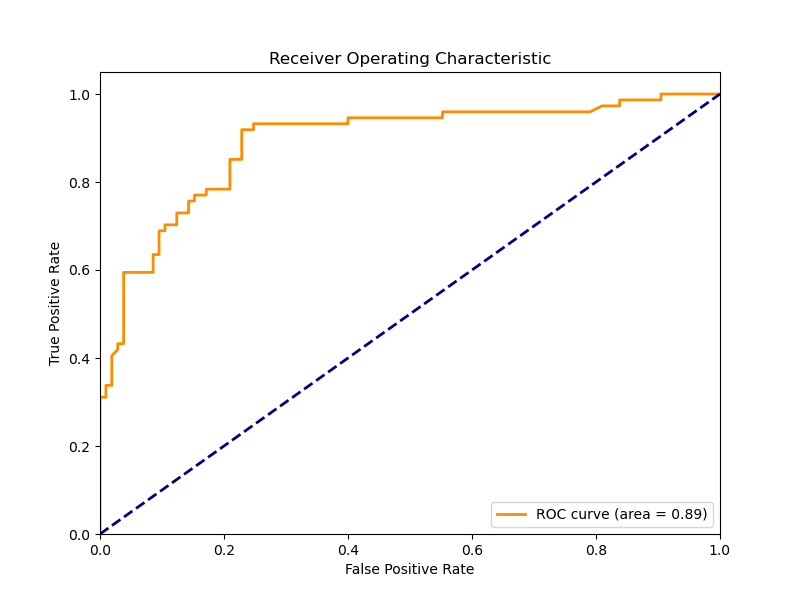
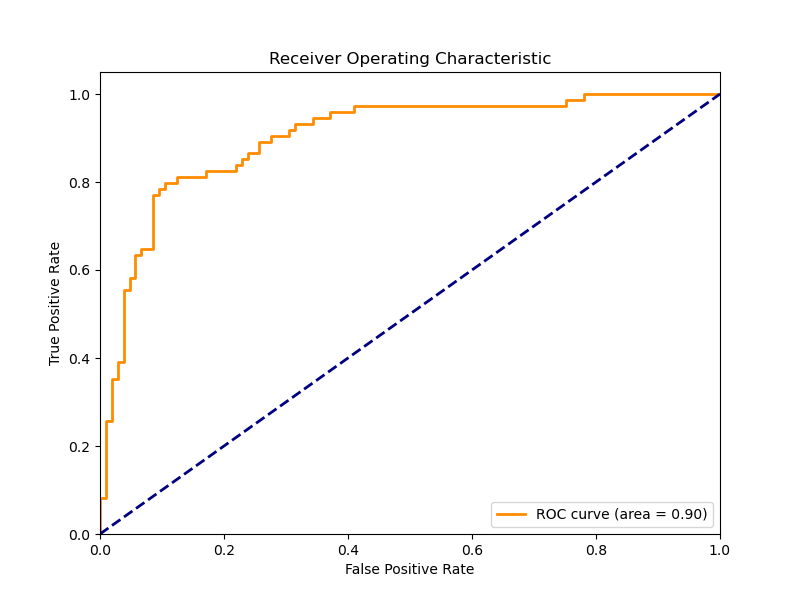
adding SMOTE to enhance accuracy of prediction

Changed region(s): [[0.125, 0.15, 0.9062, 0.48], [0.125, 0.57, 0.1562, 0.84], [0.8438, 0.84, 0.875, 0.87]]

diff --git a/algorithm_selection.py b/algorithm_selection.py
@@ -11,6 +11,8 @@ from joblib import dump
 from sklearn.tree import DecisionTreeClassifier
 from sklearn.ensemble import RandomForestClassifier, AdaBoostClassifier
 from sklearn.impute import SimpleImputer
+from imblearn.over_sampling import SMOTE
+from collections import Counter
 
 # Load the dataset
 df = pd.read_csv("train.csv")
@@ -59,6 +61,24 @@ X = X.drop(['AgeBand', 'FareBand'], axis=1, errors='ignore')
 # Split the data into training and testing sets
 X_train, X_test, y_train, y_test = train_test_split(X, y, test_size=0.2, random_state=42)
 
+
+original_feature_names = X.columns
+
+# Fill missing values
+imputer = SimpleImputer(strategy='median')  # You can use 'mean', 'most_frequent', etc.
+X_train = imputer.fit_transform(X_train)
+X_test = imputer.transform(X_test)
+
+
+X_train = pd.DataFrame(X_train, columns=original_feature_names)
+X_test = pd.DataFrame(X_test, columns=original_feature_names)
+
+# Apply SMOTE
+smote = SMOTE(random_state=42)
+X_resampled, y_resampled = smote.fit_resample(X_train, y_train)
+
+print("After SMOTE:", Counter(y_resampled))
+
 MODEL_NAME = "decision_tree"
 MODEL = DecisionTreeClassifier(random_state=42)
 
@@ -79,7 +99,7 @@ param_grid = {
 
 # Perform grid search with cross-validation
 grid_search = GridSearchCV(pipeline, param_grid, cv=5, scoring='accuracy')
-grid_search.fit(X_train, y_train)
+grid_search.fit(X_resampled, y_resampled)
 
 # Get the best model
 best_model = grid_search.best_estimator_
@@ -172,7 +192,7 @@ param_grid = {
 
 # Perform grid search with cross-validation
 grid_search = GridSearchCV(pipeline, param_grid, cv=5, scoring='accuracy')
-grid_search.fit(X_train, y_train)
+grid_search.fit(X_resampled, y_resampled)
 
 # Get the best model
 best_model = grid_search.best_estimator_
@@ -203,47 +223,6 @@ roc_auc = auc(fpr, tpr)
 # Save the model for later use
 dump(best_model, 'titanic_model.joblib')
 print("\nModel saved as 'titanic_model.joblib'")
-
-# Function to predict survival for new passengers
-def predict_survival(passenger_data):
-    """Predict survival for new passenger data.
-    
-    Args:
-        passenger_data: DataFrame with passenger information
-        
-    Returns:
-        Survival predictions (0 or 1)
-    """
-    # Preprocess the data (same as training data)
-    passenger_data['Title'] = passenger_data['Name'].str.extract(' ([A-Za-z]+)\.',
-     expand=False)
-    passenger_data['Title'] = passenger_data['Title'].replace(['Lady', 'Countess',
-    'Capt', 'Col', 'Don', 'Dr', 'Major', 'Rev', 'Sir', 'Jonkheer', 'Dona'], 'Rare')
-    passenger_data['Title'] = passenger_data['Title'].replace(['Mlle', 'Ms'], 'Miss')
-    passenger_data['Title'] = passenger_data['Title'].replace('Mme', 'Mrs')
-    passenger_data['FamilySize'] = passenger_data['SibSp'] + passenger_data['Parch'] + 1
-    passenger_data['IsAlone'] = 0
-    passenger_data.loc[passenger_data['FamilySize'] == 1, 'IsAlone'] = 1
-    
-    # Select features
-    features = ['Pclass', 'Sex', 'Age', 'SibSp', 'Parch', 'Fare', 'Embarked', 
-    'Title', 'FamilySize', 'IsAlone']
-    X_new = passenger_data[features]
-    
-    # Convert categorical variables
-    X_new = pd.get_dummies(X_new, columns=['Sex', 'Embarked', 'Title'], drop_first=True)
-    
-    # Ensure all columns from training are present
-    for col in X.columns:
-        if col not in X_new.columns:
-            X_new[col] = 0
-    
-    # Ensure columns are in the same order
-    X_new = X_new[X.columns]
-    
-    # Make predictions
-    return best_model.predict(X_new)
-
 print("\nModel training and evaluation complete!")
 
 MODEL_NAME = "AdaBoost"
@@ -262,7 +241,7 @@ param_grid = {
 
 # Perform grid search with cross-validation
 grid_search = GridSearchCV(pipeline, param_grid, cv=5, scoring='accuracy')
-grid_search.fit(X_train, y_train)
+grid_search.fit(X_resampled, y_resampled)
 
 # Get the best model
 best_model = grid_search.best_estimator_
@@ -293,45 +272,4 @@ roc_auc = auc(fpr, tpr)
 # Save the model for later use
 dump(best_model, 'titanic_model.joblib')
 print("\nModel saved as 'titanic_model.joblib'")
-
-# Function to predict survival for new passengers
-def predict_survival(passenger_data):
-    """Predict survival for new passenger data.
-    
-    Args:
-        passenger_data: DataFrame with passenger information
-        
-    Returns:
-        Survival predictions (0 or 1)
-    """
-    # Preprocess the data (same as training data)
-    passenger_data['Title'] = passenger_data['Name'].str.extract(' ([A-Za-z]+)\.',
-     expand=False)
-    passenger_data['Title'] = passenger_data['Title'].replace(['Lady', 'Countess',
-    'Capt', 'Col', 'Don', 'Dr', 'Major', 'Rev', 'Sir', 'Jonkheer', 'Dona'], 'Rare')
-    passenger_data['Title'] = passenger_data['Title'].replace(['Mlle', 'Ms'], 'Miss')
-    passenger_data['Title'] = passenger_data['Title'].replace('Mme', 'Mrs')
-    passenger_data['FamilySize'] = passenger_data['SibSp'] + passenger_data['Parch'] + 1
-    passenger_data['IsAlone'] = 0
-    passenger_data.loc[passenger_data['FamilySize'] == 1, 'IsAlone'] = 1
-    
-    # Select features
-    features = ['Pclass', 'Sex', 'Age', 'SibSp', 'Parch', 'Fare', 'Embarked', 
-    'Title', 'FamilySize', 'IsAlone']
-    X_new = passenger_data[features]
-    
-    # Convert categorical variables
-    X_new = pd.get_dummies(X_new, columns=['Sex', 'Embarked', 'Title'], drop_first=True)
-    
-    # Ensure all columns from training are present
-    for col in X.columns:
-        if col not in X_new.columns:
-            X_new[col] = 0
-    
-    # Ensure columns are in the same order
-    X_new = X_new[X.columns]
-    
-    # Make predictions
-    return best_model.predict(X_new)
-
 print("\nModel training and evaluation complete!")

diff --git a/model.py b/model.py
@@ -9,6 +9,9 @@ from sklearn.metrics import accuracy_score, confusion_matrix, classification_rep
 from sklearn.pipeline import make_pipeline
 from predict import preprocess_data
 from joblib import dump
+from imblearn.over_sampling import SMOTE
+from collections import Counter
+from sklearn.impute import SimpleImputer
 
 # Load the dataset
 df = pd.read_csv("train.csv")
@@ -56,6 +59,26 @@ X = X.drop(['AgeBand', 'FareBand'], axis=1, errors='ignore')
 
 # Split the data into training and testing sets
 X_train, X_test, y_train, y_test = train_test_split(X, y, test_size=0.2, random_state=42)
+ 
+# Check class distribution
+print("Before SMOTE:", Counter(y_train))
+
+original_feature_names = X.columns
+
+# Fill missing values
+imputer = SimpleImputer(strategy='median')  # You can use 'mean', 'most_frequent', etc.
+X_train = imputer.fit_transform(X_train)
+X_test = imputer.transform(X_test)
+
+
+X_train = pd.DataFrame(X_train, columns=original_feature_names)
+X_test = pd.DataFrame(X_test, columns=original_feature_names)
+
+# Apply SMOTE
+smote = SMOTE(random_state=42)
+X_resampled, y_resampled = smote.fit_resample(X_train, y_train)
+
+print("After SMOTE:", Counter(y_resampled))
 
 MODEL_NAME = "random_forest"
 MODEL = RandomForestClassifier(random_state=42)
@@ -76,7 +99,7 @@ param_grid = {
 
 # Perform grid search with cross-validation
 grid_search = GridSearchCV(pipeline, param_grid, cv=5, scoring='accuracy')
-grid_search.fit(X_train, y_train)
+grid_search.fit(X_resampled, y_resampled)
 
 # Get the best model
 best_model = grid_search.best_estimator_
@@ -129,6 +152,7 @@ plt.savefig('roc_curve.png')
 
 # Feature importance
 if hasattr(best_model[-1], 'feature_importances_'):
+    # Get feature importances
     importances = best_model[-1].feature_importances_
     indices = np.argsort(importances)[::-1]
     feature_names = X_train.columns
